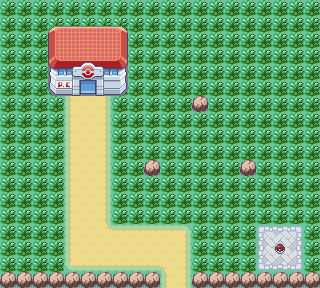
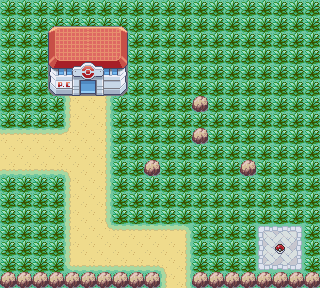
Added trainer's house upstairs and downstairs and started work on rival's house

Changed region(s): [[0.0, 0.4375, 0.2188, 0.625], [0.5938, 0.4375, 0.6562, 0.5]]

diff --git a/js/navigation.js b/js/navigation.js
@@ -7,6 +7,7 @@ var x, y, xamt, yamt;
 var pos = [+$("#trainer").css("left").replace(/[^-\d\.]/g, ''),+$("#trainer").css("top").replace(/[^-\d\.]/g, '')+6];
 var tilepos = [(+$("#trainer").css("left").replace(/[^-\d\.]/g, '')+16)/16,(+$("#trainer").css("top").replace(/[^-\d\.]/g, '')+22)/16];
 var godmode = false;
+var showpos = false;
 
 // Load boundaries and warps
 loadBoundaries();
@@ -128,6 +129,9 @@ function validMove(direction) {
 function updatePos() {
     pos = [+$('#trainer').css("left").replace(/[^-\d\.]/g, ''), +$('#trainer').css("top").replace(/[^-\d\.]/g, '')+6];
     tilepos = [(+$("#trainer").css("left").replace(/[^-\d\.]/g, '')+16)/16,(+$("#trainer").css("top").replace(/[^-\d\.]/g, '')+22)/16];
+    if (showpos) {
+        console.log(pos + " [" + tilepos + "]");
+    }
 }
 
 // If player moves into warp spot, load in new data else normal move action
@@ -189,13 +193,6 @@ function checkWarps(direction) {
             loadBoundaries();
             loadWarps();
 
-            // Move player to new location
-            $("#trainer").css("left", (dst_x-1)*16);
-            $("#trainer").css("top", (((dst_y-1)*16)-6));
-
-            // Update tilepos and pos
-            updatePos();
-
             // Get old music
             var oldMusic = $("music").html();
 
@@ -206,26 +203,34 @@ function checkWarps(direction) {
             $("#walkables_css").attr('href', 'walkables/' + warp.map + '.css');
 
             // Load in new map
-            $("#map").attr('src', 'img/maps/' + warp.map + '.png');
+            $("#map").attr('src', 'img/maps/' + warp.map + '.png').promise().done(function() {
 
-            // Load in new walkables
-            $.get("walkables/" + warp.map + ".html", function(data) {
-                $("#walkables").html(data).promise().done(function(){
-                    // Get new music
-                    var newMusic = $("music").html();
+                // Make user face proper direction (if any)
+                if (dst_direction !== false) {
+                    $("#trainer").attr('src', 'img/sprites/trainer_' + directions[dst_direction] + '_1.png');
+                }
 
-                    if (oldMusic != newMusic) {
-                        // Fadeout previous song and play new song
-                        music.fadeTo(0, 1000, function() {music.stop(); playMusic()});
+                // Move player to new location
+                $("#trainer").css("left", (dst_x-1)*16);
+                $("#trainer").css("top", (((dst_y-1)*16)-6));
 
-                    }
+                // Update tilepos and pos
+                updatePos();
+
+                // Load in new walkables
+                $.get("walkables/" + warp.map + ".html", function(data) {
+                    $("#walkables").html(data).promise().done(function(){
+                        // Get new music
+                        var newMusic = $("music").html();
+
+                        if (oldMusic != newMusic) {
+                            // Fadeout previous song and play new song
+                            music.fadeTo(0, 1000, function() {music.stop(); playMusic()});
+
+                        }
+                    });
                 });
             });
-
-            // Make user face proper direction (if any)
-            if (dst_direction !== false) {
-                $("#trainer").attr('src', 'img/sprites/trainer_' + directions[dst_direction] + '_1.png');
-            }
 
             // Don't move player in direction they were headed since this was a valid warp
             valid = true;

diff --git a/walkables/rival_house_downstairs.html b/walkables/rival_house_downstairs.html
@@ -1,0 +1,1 @@
+<music hidden>littleroot</music>

diff --git a/walkables/trainer_house_downstairs.html b/walkables/trainer_house_downstairs.html
@@ -1,0 +1,1 @@
+<music hidden>littleroot</music>

diff --git a/walkables/trainer_house_upstairs.html b/walkables/trainer_house_upstairs.html
@@ -1,0 +1,1 @@
+<music hidden>littleroot</music>

diff --git a/generate.php b/generate.php
@@ -3,5 +3,9 @@ require_once("Map.class.php");
 // Using map src code to generate the map
 $map = new Map("maps/" . $_GET['map'] . ".map");
 $map->genImage(true);
-echo "done"
+if ($map->getStatus() == null) {
+    echo "done";
+} else {
+    echo $map->getStatus();
+}
 ?>
